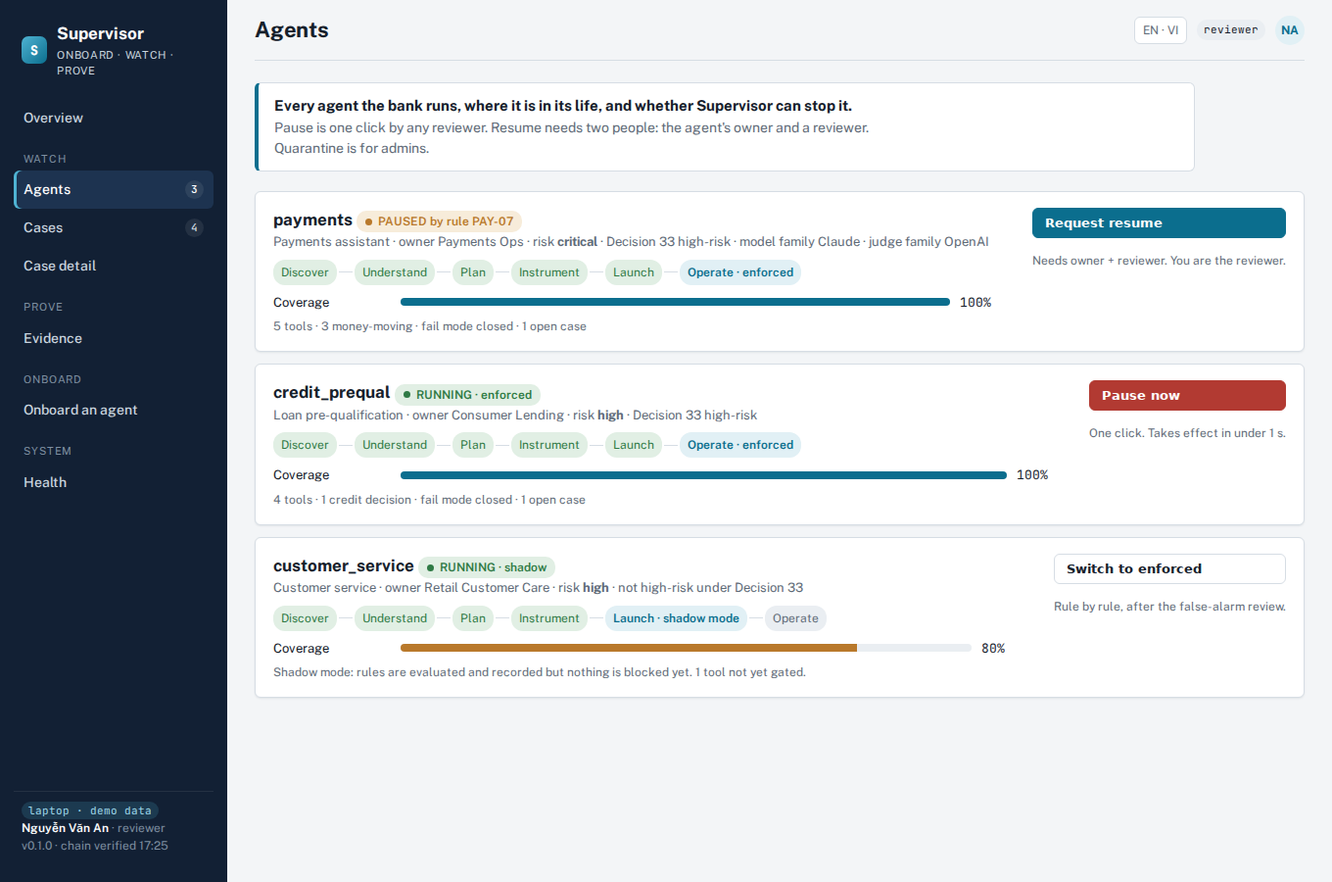
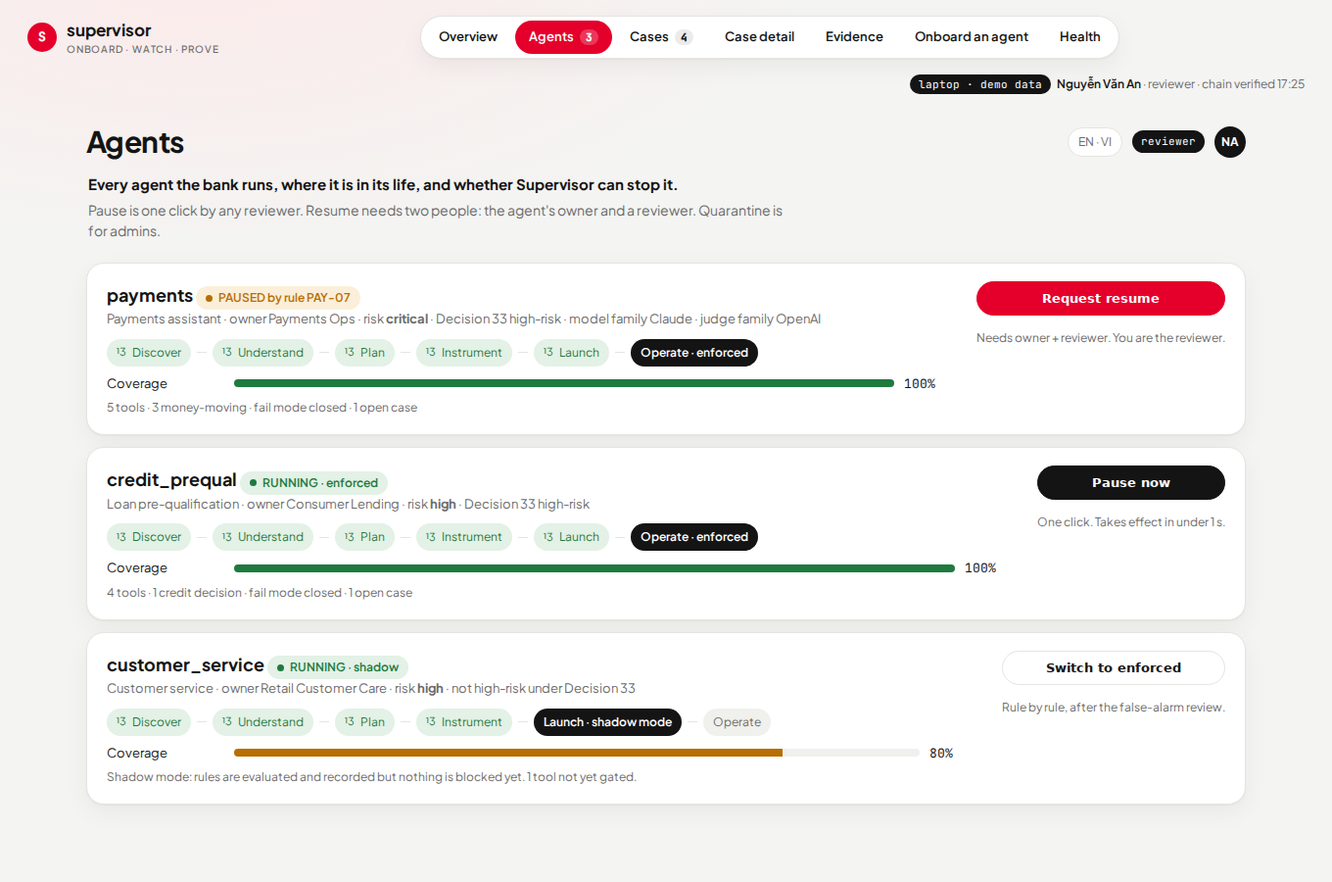
docs(design): prototype v2 in the owner's reference layout with Techcombank colours
Claude-Session: https://claude.ai/code/session_0154Ro9vi7onrUuJ6n94CirG

diff --git a/docs/design/console-prototype.html b/docs/design/console-prototype.html
@@ -1,135 +1,140 @@
 <title>Supervisor Console Prototype</title>
-<link rel="stylesheet" href="https://fonts.googleapis.com/css2?family=Public+Sans:wght@400;500;600;700&family=JetBrains+Mono:wght@400;500&display=swap">
+<link rel="stylesheet" href="https://fonts.googleapis.com/css2?family=Plus+Jakarta+Sans:wght@400;500;600;700&family=JetBrains+Mono:wght@400;500&display=swap">
 <style>
-/* Layout: fixed left rail (navy) + content column. Every screen opens with one plain sentence that says what it is for.
-   Palette = deck theme: navy 122034, teal 0B6E8E, amber B9792B, red B23A32. Prototype uses Google Fonts; the real build vendors Public Sans + JetBrains Mono (both OFL). */
+/* Layout per the owner's reference: top pill navigation, greeting, airy rounded cards on a soft gradient. Techcombank palette: brand red on charcoal ink and warm white (hex values approximate; swap for the brand guide). Fonts: Plus Jakarta Sans (body) + JetBrains Mono; real build vendors both (OFL). */
 :root{
-  --bg:#f3f5f7; --surface:#ffffff; --surface-2:#eaeef2; --fg:#15202b; --muted:#5f6b78; --line:#d6dde4;
-  --rail:#122034; --rail-fg:#c9d4de; --rail-active:#1d3350; --rail-accent:#4fb3d3;
-  --accent:#0b6e8e; --accent-soft:#e1f0f5; --amber:#b9792b; --amber-soft:#f7ecda; --red:#b23a32; --red-soft:#f6e3e1; --green:#2f7a45; --green-soft:#e1efe4; --purple:#7a3e9d; --purple-soft:#eee4f5;
-  --f-body:"Public Sans","Segoe UI",Arial,sans-serif; --f-mono:"JetBrains Mono",Consolas,monospace;
-  --r:6px; --shadow:0 1px 2px rgba(18,32,52,.08);
+  --bg:#f4f4f2; --bg-glow:#fbeaea; --surface:#ffffff; --surface-2:#f0f0ed; --fg:#141414; --muted:#6b6b6b; --line:#e4e4e0;
+  --red:#e4002b; --red-soft:#fde7eb; --ink:#141414; --ink-fg:#ffffff;
+  --gold:#b58b2a; --gold-soft:#f7efd9; --green:#1f7a3f; --green-soft:#e3f1e6; --amber:#b86e00; --amber-soft:#fbefd9; --teal:#0b6e8e; --teal-soft:#e2eff4;
+  --f-body:"Plus Jakarta Sans","Segoe UI",Arial,sans-serif; --f-mono:"JetBrains Mono",Consolas,monospace;
+  --r:18px; --r-s:10px; --shadow:0 1px 2px rgba(20,20,20,.04),0 8px 24px rgba(20,20,20,.05);
 }
 @media (prefers-color-scheme: dark){ :root:not([data-theme="light"]){
-  --bg:#0f161e; --surface:#172029; --surface-2:#1f2a35; --fg:#e4eaf0; --muted:#97a4b1; --line:#2b3744;
-  --rail:#0b121a; --rail-fg:#aebbc8; --rail-active:#1a2a3c; --rail-accent:#4fb3d3;
-  --accent:#4fb3d3; --accent-soft:#113646; --amber:#d9a258; --amber-soft:#3a2d18; --red:#e0756c; --red-soft:#40221f; --green:#7cc38a; --green-soft:#1d3324; --purple:#b48ad3; --purple-soft:#2d2238;
+  --bg:#121212; --bg-glow:#2a1316; --surface:#1c1c1c; --surface-2:#262626; --fg:#ededea; --muted:#a3a39e; --line:#303030;
+  --red:#ff3b5c; --red-soft:#3a1a21; --ink:#ededea; --ink-fg:#141414;
+  --gold:#d8ab45; --gold-soft:#3a3118; --green:#7cc38a; --green-soft:#1c3324; --amber:#e0a04a; --amber-soft:#3a2a12; --teal:#4fb3d3; --teal-soft:#123440;
   --shadow:none; color-scheme:dark } }
 :root[data-theme="dark"]{
-  --bg:#0f161e; --surface:#172029; --surface-2:#1f2a35; --fg:#e4eaf0; --muted:#97a4b1; --line:#2b3744;
-  --rail:#0b121a; --rail-fg:#aebbc8; --rail-active:#1a2a3c; --rail-accent:#4fb3d3;
-  --accent:#4fb3d3; --accent-soft:#113646; --amber:#d9a258; --amber-soft:#3a2d18; --red:#e0756c; --red-soft:#40221f; --green:#7cc38a; --green-soft:#1d3324; --purple:#b48ad3; --purple-soft:#2d2238;
+  --bg:#121212; --bg-glow:#2a1316; --surface:#1c1c1c; --surface-2:#262626; --fg:#ededea; --muted:#a3a39e; --line:#303030;
+  --red:#ff3b5c; --red-soft:#3a1a21; --ink:#ededea; --ink-fg:#141414;
+  --gold:#d8ab45; --gold-soft:#3a3118; --green:#7cc38a; --green-soft:#1c3324; --amber:#e0a04a; --amber-soft:#3a2a12; --teal:#4fb3d3; --teal-soft:#123440;
   --shadow:none; color-scheme:dark }
 *{box-sizing:border-box}
-body{background:var(--bg);color:var(--fg);font-family:var(--f-body);font-size:15px;line-height:1.5;padding-inline:0;padding-block:0;margin:0}
-.app{display:grid;grid-template-columns:232px minmax(0,1fr);min-height:100vh}
-@media (max-width:860px){.app{grid-template-columns:1fr}.rail{position:sticky;top:0;z-index:5}}
-.rail{background:var(--rail);color:var(--rail-fg);padding:18px 14px;display:flex;flex-direction:column;gap:6px}
-.brand{display:flex;align-items:center;gap:10px;color:#fff;font-weight:700;font-size:17px;padding:4px 8px 14px}
-.brand .mark{width:28px;height:28px;border-radius:7px;background:linear-gradient(135deg,var(--rail-accent),#0b6e8e);display:grid;place-items:center;color:#fff;font-family:var(--f-mono);font-size:13px}
-.brand small{display:block;font-weight:400;font-size:11px;color:var(--rail-fg);letter-spacing:.06em;text-transform:uppercase}
-.nav a{display:flex;align-items:center;gap:10px;color:var(--rail-fg);text-decoration:none;padding:9px 10px;border-radius:var(--r);font-weight:500;font-size:14px}
-.nav a:hover,.nav a:focus-visible{background:var(--rail-active);color:#fff;outline:none}
-.nav a.active{background:var(--rail-active);color:#fff;box-shadow:inset 3px 0 0 var(--rail-accent)}
-.nav a .k{margin-left:auto;font-family:var(--f-mono);font-size:11px;background:rgba(255,255,255,.08);padding:1px 6px;border-radius:10px}
-.nav .group{font-size:11px;letter-spacing:.08em;text-transform:uppercase;color:#7f8fa0;padding:14px 10px 4px}
-.rail .foot{margin-top:auto;font-size:12px;color:#7f8fa0;padding:10px 8px;border-top:1px solid rgba(255,255,255,.08)}
-.rail .foot b{color:#fff;font-weight:600}
-.env{display:inline-block;font-family:var(--f-mono);font-size:11px;padding:1px 7px;border-radius:10px;background:rgba(79,179,211,.18);color:#9fd8ea}
-main{padding:0 28px 48px;min-width:0}
-.topbar{display:flex;align-items:center;gap:14px;padding:14px 0;border-bottom:1px solid var(--line);margin-bottom:22px;flex-wrap:wrap}
-.topbar h1{font-size:22px;margin:0;font-weight:700;letter-spacing:-.01em}
+body{background:var(--bg);background-image:radial-gradient(900px 420px at 15% -5%,var(--bg-glow),transparent 70%);color:var(--fg);font-family:var(--f-body);font-size:15px;line-height:1.5;margin:0;padding-inline:0;padding-block:0}
+.app{display:block}
+.rail{display:flex;align-items:center;gap:16px;padding:16px 28px 0;flex-wrap:wrap}
+.brand{display:flex;align-items:center;gap:10px;font-weight:700;font-size:17px;color:var(--fg)}
+.brand .mark{width:30px;height:30px;border-radius:50%;background:var(--red);color:#fff;display:grid;place-items:center;font-family:var(--f-mono);font-size:13px}
+.brand small{display:block;font-weight:500;font-size:10px;color:var(--muted);letter-spacing:.08em;text-transform:uppercase}
+.nav{display:flex;align-items:center;gap:4px;background:var(--surface);border:1px solid var(--line);border-radius:999px;padding:4px;margin-inline:auto;box-shadow:var(--shadow);flex-wrap:wrap}
+.nav .group{display:none}
+.nav a{display:inline-flex;align-items:center;gap:6px;color:var(--fg);text-decoration:none;padding:7px 14px;border-radius:999px;font-weight:600;font-size:13px}
+.nav a:hover,.nav a:focus-visible{background:var(--surface-2);outline:none}
+.nav a.active{background:var(--red);color:#fff}
+.nav a .k{font-family:var(--f-mono);font-size:11px;background:rgba(0,0,0,.08);padding:0 6px;border-radius:10px}
+.nav a.active .k{background:rgba(255,255,255,.22)}
+.rail .foot{font-size:12px;color:var(--muted);margin-left:auto;text-align:right}
+.rail .foot b{color:var(--fg);font-weight:600}
+.env{display:inline-block;font-family:var(--f-mono);font-size:11px;padding:2px 9px;border-radius:999px;background:var(--ink);color:var(--ink-fg)}
+main{padding:8px 28px 56px;max-width:1240px;margin:0 auto;min-width:0}
+.topbar{display:flex;align-items:center;gap:14px;padding:18px 0 6px;flex-wrap:wrap}
+.topbar h1{font-size:30px;margin:0;font-weight:700;letter-spacing:-.02em}
 .topbar .who{margin-left:auto;display:flex;align-items:center;gap:10px;font-size:13px;color:var(--muted)}
-.avatar{width:30px;height:30px;border-radius:50%;background:var(--accent-soft);color:var(--accent);display:grid;place-items:center;font-weight:700;font-size:12px}
-.role{font-family:var(--f-mono);font-size:11px;padding:2px 7px;border-radius:10px;background:var(--surface-2);color:var(--fg)}
-.lang{border:1px solid var(--line);background:var(--surface);border-radius:var(--r);padding:4px 8px;font-size:12px}
-.purpose{display:flex;gap:12px;align-items:flex-start;background:var(--surface);border:1px solid var(--line);border-left:4px solid var(--accent);border-radius:var(--r);padding:12px 16px;margin-bottom:20px;max-width:960px}
-.purpose p{margin:0;max-width:72ch}
+.avatar{width:32px;height:32px;border-radius:50%;background:var(--ink);color:var(--ink-fg);display:grid;place-items:center;font-weight:700;font-size:12px}
+.role{font-family:var(--f-mono);font-size:11px;padding:3px 9px;border-radius:999px;background:var(--ink);color:var(--ink-fg)}
+.lang{border:1px solid var(--line);background:var(--surface);border-radius:999px;padding:5px 10px;font-size:12px}
+.purpose{display:flex;gap:12px;align-items:flex-start;padding:4px 2px 18px;max-width:900px}
+.purpose p{margin:0 0 4px;max-width:72ch}
 .purpose .why{color:var(--muted);font-size:14px}
 .screen{display:none}.screen.active{display:block}
-.grid{display:grid;gap:16px}
+.grid{display:grid;gap:14px}
 .g3{grid-template-columns:repeat(auto-fit,minmax(240px,1fr))}
 .g4{grid-template-columns:repeat(auto-fit,minmax(200px,1fr))}
-.card{background:var(--surface);border:1px solid var(--line);border-radius:var(--r);padding:16px 18px;box-shadow:var(--shadow);min-width:0}
-.card h3{margin:0 0 6px;font-size:14px;font-weight:600;color:var(--muted);text-transform:uppercase;letter-spacing:.05em}
-.num{font-size:32px;font-weight:700;letter-spacing:-.02em;font-variant-numeric:tabular-nums;line-height:1.1}
+.card{background:var(--surface);border:1px solid var(--line);border-radius:var(--r);padding:18px 20px;box-shadow:var(--shadow);min-width:0}
+.card h3{margin:0 0 8px;font-size:12px;font-weight:600;color:var(--muted);letter-spacing:.02em}
+.num{font-size:34px;font-weight:700;letter-spacing:-.02em;font-variant-numeric:tabular-nums;line-height:1.1}
 .num small{font-size:13px;font-weight:500;color:var(--muted);margin-left:6px}
-.sub{color:var(--muted);font-size:13px;margin-top:4px}
-.pillars{grid-template-columns:repeat(auto-fit,minmax(260px,1fr));margin:0 0 20px}
-.pillar{display:grid;grid-template-columns:44px 1fr;gap:12px;align-items:start}
-.pillar .ico{width:44px;height:44px;border-radius:10px;display:grid;place-items:center;font-weight:700;font-family:var(--f-mono)}
+.sub{color:var(--muted);font-size:13px;margin-top:6px}
+.pillars{grid-template-columns:repeat(auto-fit,minmax(250px,1fr));margin:0 0 14px}
+.pillar{display:grid;grid-template-columns:40px 1fr;gap:12px;align-items:start}
+.pillar .ico{width:40px;height:40px;border-radius:50%;display:grid;place-items:center;font-weight:700;font-family:var(--f-mono);font-size:13px}
 .pillar h4{margin:0 0 4px;font-size:16px}
 .pillar p{margin:0;color:var(--muted);font-size:14px}
-.ico.on{background:var(--accent-soft);color:var(--accent)}.ico.wa{background:var(--amber-soft);color:var(--amber)}.ico.pr{background:var(--purple-soft);color:var(--purple)}
-.pill{display:inline-flex;align-items:center;gap:6px;font-size:12px;font-weight:600;padding:2px 9px;border-radius:10px;white-space:nowrap}
-.pill.ok{background:var(--green-soft);color:var(--green)}.pill.warn{background:var(--amber-soft);color:var(--amber)}.pill.bad{background:var(--red-soft);color:var(--red)}.pill.info{background:var(--accent-soft);color:var(--accent)}.pill.neutral{background:var(--surface-2);color:var(--muted)}
+.ico.on{background:var(--teal-soft);color:var(--teal)}.ico.wa{background:var(--red-soft);color:var(--red)}.ico.pr{background:var(--gold-soft);color:var(--gold)}
+.pill{display:inline-flex;align-items:center;gap:6px;font-size:12px;font-weight:600;padding:3px 10px;border-radius:999px;white-space:nowrap}
+.pill.ok{background:var(--green-soft);color:var(--green)}.pill.warn{background:var(--amber-soft);color:var(--amber)}.pill.bad{background:var(--red-soft);color:var(--red)}.pill.info{background:var(--ink);color:var(--ink-fg)}.pill.neutral{background:var(--surface-2);color:var(--muted)}
 .pill .dot{width:7px;height:7px;border-radius:50%;background:currentColor}
-.tablewrap{overflow-x:auto;border:1px solid var(--line);border-radius:var(--r);background:var(--surface)}
+.tablewrap{overflow-x:auto;border:1px solid var(--line);border-radius:var(--r);background:var(--surface);box-shadow:var(--shadow)}
 table{border-collapse:collapse;width:100%;font-size:14px;min-width:620px}
-th,td{text-align:left;padding:10px 12px;border-bottom:1px solid var(--line);vertical-align:top}
-th{font-size:12px;text-transform:uppercase;letter-spacing:.05em;color:var(--muted);font-weight:600;background:var(--surface-2)}
+th,td{text-align:left;padding:12px 14px;border-bottom:1px solid var(--line);vertical-align:top}
+th{font-size:11px;letter-spacing:.04em;color:var(--muted);font-weight:600}
 tr:last-child td{border-bottom:none}
 tr.row:hover td{background:var(--surface-2)}
 td.mono,.mono{font-family:var(--f-mono);font-size:13px}
-.strip{display:flex;flex-direction:column;gap:0;border:1px solid var(--line);border-radius:var(--r);background:var(--surface);overflow:hidden}
-.strip .ev{display:grid;grid-template-columns:86px 110px 150px 1fr 90px;gap:10px;padding:9px 14px;border-bottom:1px solid var(--line);font-size:13px;align-items:center}
+.strip{display:flex;flex-direction:column;border:1px solid var(--line);border-radius:var(--r);background:var(--surface);overflow:hidden;box-shadow:var(--shadow)}
+.strip .ev{display:grid;grid-template-columns:86px 110px 150px 1fr 90px;gap:10px;padding:11px 16px;border-bottom:1px solid var(--line);font-size:13px;align-items:center}
 .strip .ev:last-child{border-bottom:none}
 .strip .t{font-family:var(--f-mono);color:var(--muted);font-size:12px}
 @media (max-width:760px){.strip .ev{grid-template-columns:1fr 1fr;row-gap:4px}}
-.stepper{display:flex;gap:0;align-items:center;flex-wrap:wrap;margin:8px 0 2px}
-.step{display:flex;align-items:center;gap:6px;font-size:12px;color:var(--muted);padding:4px 8px;border-radius:12px;background:var(--surface-2)}
-.step.done{color:var(--green);background:var(--green-soft)}.step.now{color:var(--accent);background:var(--accent-soft);font-weight:600}
-.step+.step::before{content:"";}
-.arrow{width:14px;height:1px;background:var(--line);margin:0 2px}
+.stepper{display:flex;gap:4px;align-items:center;flex-wrap:wrap;margin:10px 0 2px}
+.step{display:inline-flex;align-items:center;gap:6px;font-size:12px;color:var(--muted);padding:5px 10px;border-radius:999px;background:var(--surface-2)}
+.step.done{color:var(--green);background:var(--green-soft)}.step.now{color:#fff;background:var(--ink);font-weight:600}
+.step.done::before{content:"¹3";font-size:11px}
+.arrow{width:10px;height:1px;background:var(--line);margin:0 2px}
 .bar{height:8px;background:var(--surface-2);border-radius:4px;overflow:hidden}
-.bar i{display:block;height:100%;background:var(--accent)}
+.bar i{display:block;height:100%;background:var(--green)}
 .bar.red i{background:var(--red)}.bar.amber i{background:var(--amber)}
 .agent{display:grid;grid-template-columns:1fr auto;gap:14px}
-.agent h4{margin:0;font-size:17px}.agent .meta{color:var(--muted);font-size:13px}
-.btn{display:inline-flex;align-items:center;gap:6px;border:1px solid var(--line);background:var(--surface);color:var(--fg);padding:7px 12px;border-radius:var(--r);font-size:13px;font-weight:600;cursor:pointer}
-.btn.primary{background:var(--accent);border-color:var(--accent);color:#fff}
-.btn.danger{background:var(--red);border-color:var(--red);color:#fff}
+.agent h4{margin:0;font-size:18px}.agent .meta{color:var(--muted);font-size:13px}
+.btn{display:inline-flex;align-items:center;justify-content:center;gap:6px;border:1px solid var(--line);background:var(--surface);color:var(--fg);padding:9px 16px;border-radius:999px;font-size:13px;font-weight:600;cursor:pointer}
+.btn.primary{background:var(--red);border-color:var(--red);color:#fff}
+.btn.danger{background:var(--ink);border-color:var(--ink);color:var(--ink-fg)}
 .btn.ghost{background:transparent}
-.btn:focus-visible{outline:2px solid var(--accent);outline-offset:2px}
+.btn:focus-visible{outline:2px solid var(--red);outline-offset:2px}
 .hint{font-size:12px;color:var(--muted);margin-top:6px}
-.case-head{display:grid;grid-template-columns:1fr auto;gap:16px;align-items:start;background:var(--surface);border:1px solid var(--line);border-radius:var(--r);padding:16px 18px;margin-bottom:16px}
-.case-head h2{margin:0 0 4px;font-size:20px}
+.case-head{display:grid;grid-template-columns:1fr auto;gap:16px;align-items:start;background:var(--surface);border:1px solid var(--line);border-radius:var(--r);padding:20px 22px;margin-bottom:14px;box-shadow:var(--shadow)}
+.case-head h2{margin:6px 0 4px;font-size:24px;letter-spacing:-.01em}
 .case-head .line{color:var(--muted);font-size:14px}
 .clocks{display:grid;gap:10px;min-width:260px}
 .clock{font-size:12px;color:var(--muted)}
 .clock b{color:var(--fg);font-family:var(--f-mono);font-weight:500}
-.two{display:grid;grid-template-columns:minmax(0,1.6fr) minmax(280px,1fr);gap:16px}
+.tabs{display:inline-flex;gap:4px;background:var(--surface);border:1px solid var(--line);border-radius:999px;padding:4px;margin:0 0 14px}
+.tabs span{padding:6px 14px;border-radius:999px;font-size:13px;font-weight:600;color:var(--muted)}
+.tabs span.on{background:var(--ink);color:var(--ink-fg)}
+.two{display:grid;grid-template-columns:minmax(0,1.6fr) minmax(280px,1fr);gap:14px}
 @media (max-width:900px){.two{grid-template-columns:1fr}}
 .timeline{list-style:none;margin:0;padding:0}
-.timeline li{display:grid;grid-template-columns:72px 18px 1fr;gap:10px;padding:8px 0;border-bottom:1px dashed var(--line);font-size:14px}
+.timeline li{display:grid;grid-template-columns:72px 18px 1fr;gap:10px;padding:9px 0;border-bottom:1px dashed var(--line);font-size:14px}
 .timeline li:last-child{border-bottom:none}
 .timeline .t{font-family:var(--f-mono);font-size:12px;color:var(--muted)}
 .timeline .dot{width:10px;height:10px;border-radius:50%;margin-top:6px;background:var(--line)}
-.timeline .dot.red{background:var(--red)}.timeline .dot.amber{background:var(--amber)}.timeline .dot.teal{background:var(--accent)}.timeline .dot.green{background:var(--green)}
+.timeline .dot.red{background:var(--red)}.timeline .dot.amber{background:var(--amber)}.timeline .dot.teal{background:var(--teal)}.timeline .dot.green{background:var(--green)}
 .flow{display:flex;align-items:center;gap:6px;flex-wrap:wrap;margin:6px 0 12px}
-.flow .st{padding:5px 10px;border-radius:12px;font-size:12px;background:var(--surface-2);color:var(--muted)}
-.flow .st.done{background:var(--green-soft);color:var(--green)}.flow .st.now{background:var(--accent-soft);color:var(--accent);font-weight:600}
-.need{background:var(--amber-soft);border:1px solid transparent;border-radius:var(--r);padding:10px 12px;font-size:13px;color:var(--fg)}
+.flow .st{padding:5px 11px;border-radius:999px;font-size:12px;background:var(--surface-2);color:var(--muted)}
+.flow .st.done{background:var(--green-soft);color:var(--green)}.flow .st.now{background:var(--ink);color:var(--ink-fg);font-weight:600}
+.need{background:var(--gold-soft);border-radius:var(--r-s);padding:10px 12px;font-size:13px;color:var(--fg)}
 .lanes{display:grid;gap:10px}
-.lane{display:grid;grid-template-columns:150px 1fr auto;gap:12px;align-items:center;font-size:13px}
+.lane{display:grid;grid-template-columns:170px 1fr auto;gap:12px;align-items:center;font-size:13px}
 .lane .blocks{display:flex;gap:3px;flex-wrap:wrap}
-.lane .b{width:14px;height:14px;border-radius:3px;background:var(--accent-soft);border:1px solid var(--accent)}
-.lane .b.root{background:var(--purple-soft);border-color:var(--purple)}
-.lane .b.signed{background:var(--accent)}
-.ok-big{display:flex;align-items:center;gap:12px;padding:14px 16px;border-radius:var(--r);background:var(--green-soft);color:var(--green);font-weight:600}
-.wizard{display:grid;grid-template-columns:repeat(auto-fit,minmax(170px,1fr));gap:10px;margin:10px 0 18px}
-.wstep{border:1px solid var(--line);border-radius:var(--r);padding:10px 12px;background:var(--surface);font-size:13px}
-.wstep b{display:block;font-size:12px;color:var(--muted);text-transform:uppercase;letter-spacing:.05em;margin-bottom:3px}
-.wstep.now{border-color:var(--accent);box-shadow:inset 0 0 0 1px var(--accent)}
-.empty{border:1px dashed var(--line);border-radius:var(--r);padding:18px;color:var(--muted);font-size:14px;max-width:60ch}
-.banner{display:flex;gap:10px;align-items:center;background:var(--amber-soft);color:var(--fg);padding:8px 14px;font-size:13px;border-radius:var(--r);margin-bottom:16px}
-h2.sec{font-size:15px;margin:22px 0 10px;text-transform:uppercase;letter-spacing:.05em;color:var(--muted);font-weight:600}
+.lane .b{width:14px;height:14px;border-radius:4px;background:var(--surface-2);border:1px solid var(--line)}
+.lane .b.root{background:var(--gold-soft);border-color:var(--gold)}
+.lane .b.signed{background:var(--gold)}
+.ok-big{display:flex;align-items:center;gap:12px;padding:12px 14px;border-radius:var(--r-s);background:var(--green-soft);color:var(--green);font-weight:600}
+.wizard{display:grid;grid-template-columns:repeat(auto-fit,minmax(170px,1fr));gap:10px;margin:10px 0 16px}
+.wstep{border:1px solid var(--line);border-radius:var(--r-s);padding:12px 14px;background:var(--surface);font-size:13px}
+.wstep b{display:block;font-size:11px;color:var(--muted);letter-spacing:.04em;margin-bottom:3px}
+.wstep.now{border-color:var(--red);box-shadow:inset 0 0 0 1px var(--red)}
+.banner{display:flex;gap:10px;align-items:center;background:var(--amber-soft);color:var(--fg);padding:8px 14px;font-size:13px;border-radius:var(--r-s);margin-bottom:16px}
+h2.sec{font-size:15px;margin:22px 0 10px;font-weight:700}
 .note{font-size:12px;color:var(--muted);margin-top:10px}
+.greet{font-size:30px;font-weight:700;letter-spacing:-.02em;margin:10px 0 2px}
+.greet-sub{color:var(--muted);margin:0 0 18px;max-width:72ch}
+.demo-line{font-size:12px;color:var(--muted);margin:2px 0 0}
 </style>
 
 <div class="app">
-  <aside class="rail">
-    <div class="brand"><span class="mark">S</span><span>Supervisor<small>Onboard · Watch · Prove</small></span></div>
+  <header class="rail">
+    <div class="brand"><span class="mark">S</span><span>supervisor<small>Onboard · Watch · Prove</small></span></div>
     <nav class="nav" id="nav">
       <a href="#overview" data-s="overview" class="active">Overview</a>
       <div class="group">Watch</div>
@@ -143,17 +148,20 @@ h2.sec{font-size:15px;margin:22px 0 10px;text-transform:uppercase;letter-spacing
       <div class="group">System</div>
       <a href="#health" data-s="health">Health</a>
     </nav>
-    <div class="foot"><span class="env">laptop · demo data</span><br><b>Nguyễn Văn An</b> · reviewer<br>v0.1.0 · chain verified 17:25</div>
-  </aside>
+    <div class="foot"><span class="env">laptop · demo data</span> &nbsp; <b>Nguyễn Văn An</b> · reviewer · chain verified 17:25</div>
+  </header>
 
   <main>
     <div class="topbar">
-      <h1 id="title">Overview</h1>
+      <h1 id="title" hidden>Overview</h1>
       <div class="who"><span class="lang">EN · VI</span><span class="role">reviewer</span><span class="avatar">NA</span></div>
     </div>
 
     <!-- OVERVIEW -->
     <section class="screen active" id="s-overview">
+      <p class="demo-line">Demo data only. Every customer and every agent reply is synthetic. The gate decisions, the pause and the evidence chain are real.</p>
+      <div class="greet">Good evening, An</div>
+      <p class="greet-sub">3 agents are under supervision. 4 actions were stopped today. One case needs a decision before the SBV 24-hour clock runs out.</p>
       <div class="purpose"><div>
         <p><strong>Supervisor watches the AI agents your bank runs.</strong> It records every action, stops the dangerous ones before they execute, and keeps evidence that a regulator can check.</p>
         <p class="why">Think of a pit boss on a casino floor. The dealers are your agents. The pit boss never deals, but watches every table, steps in when a hand looks wrong, and the cameras keep the tape.</p>
@@ -251,6 +259,7 @@ h2.sec{font-size:15px;margin:22px 0 10px;text-transform:uppercase;letter-spacing
           <div class="clock">Decision 33 · high-risk (banking transactions)</div>
         </div>
       </div>
+      <div class="tabs"><span class="on">Story</span><span>Rules &amp; judges</span><span>Transcript</span><span>Evidence</span><span>Case file</span></div>
       <div class="two">
         <div>
           <div class="card">
@@ -371,7 +380,7 @@ h2.sec{font-size:15px;margin:22px 0 10px;text-transform:uppercase;letter-spacing
     if(!titles[id]) id="overview";
     document.querySelectorAll(".screen").forEach(function(s){s.classList.toggle("active",s.id==="s-"+id)});
     document.querySelectorAll("#nav a").forEach(function(a){a.classList.toggle("active",a.dataset.s===id)});
-    document.getElementById("title").textContent=titles[id];
+    var t=document.getElementById("title");t.textContent=titles[id];t.hidden=(id==="overview");
     window.scrollTo(0,0);
   }
   function fromHash(){show((location.hash||"#overview").slice(1))}

diff --git a/docs/design/README.md b/docs/design/README.md
@@ -5,8 +5,9 @@
 Design rules the real console must keep:
 - Every screen opens with a one-sentence purpose box (what this screen is for), plus one plain-language "why" line.
 - Three pillars everywhere: Onboard, Watch, Prove. The rail is grouped by them.
-- Palette: navy rail 122034, teal accent 0B6E8E, amber B9792B, red B23A32, purple 7A3E9D (the deck theme). Light and dark themes via tokens.
-- Fonts: Public Sans (body) and JetBrains Mono (code/ids). Both OFL. Vendored as woff2 under `src/supervisor/console/static/fonts/`; no CDN at the bank.
+- Shell per the owner's reference (`owner-reference.jpg`): top pill navigation, greeting on the home screen, airy rounded cards (radius 18) on a soft gradient, dark rounded badges, pill tabs on detail pages.
+- Palette: Techcombank brand red (prototype uses E4002B; replace with the brand guide value) as the single primary, charcoal ink 141414, warm white F4F4F2, white cards; gold B58B2A only for evidence/signatures; green/amber/red soft tints for status. Light and dark themes via tokens.
+- Fonts: Plus Jakarta Sans (body) and JetBrains Mono (code/ids). Both OFL. Vendored as woff2 under `src/supervisor/console/static/fonts/`; no CDN at the bank.
 - Status is a coloured pill with a word, never colour alone. Numbers are tabular.
 - The one action a user can take is next to the thing it acts on, with the rule for it written under the button (two-person resume, two sign-offs to close critical).
 - Demo data is labelled on screen. The gate block, the pause and the chain break are always real.
